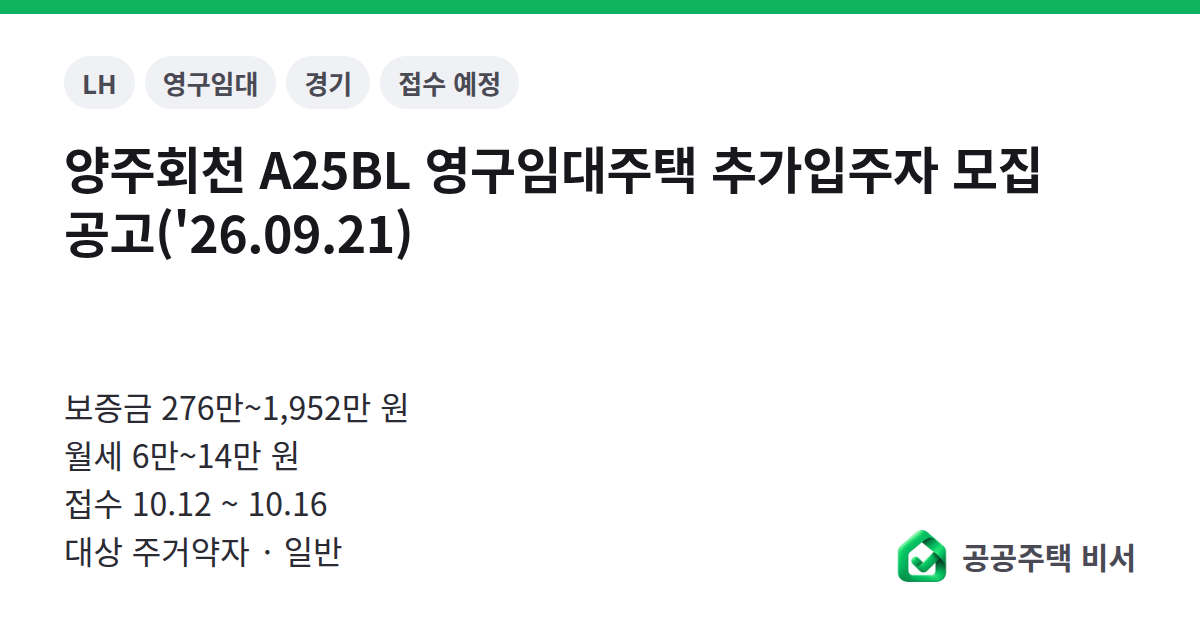
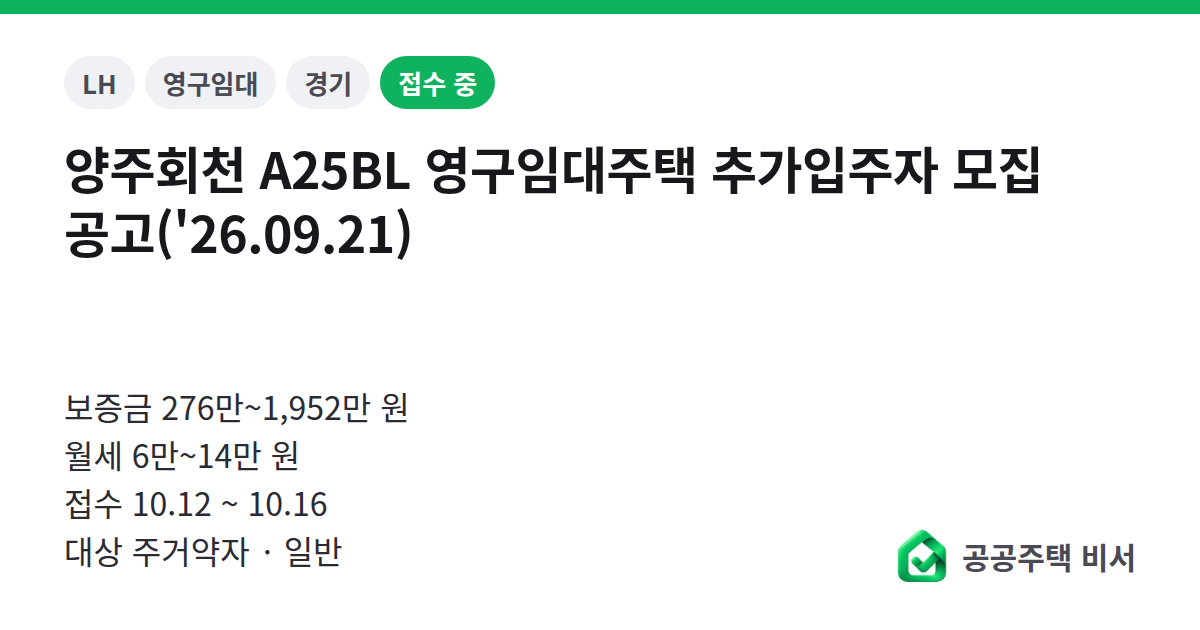
공고 페이지 갱신 2026-10-12T03:46

Changed region(s): [[0.3083, 0.0905, 0.4317, 0.181]]

diff --git a/index.html b/index.html
@@ -29,7 +29,7 @@ footer{color:var(--fg3);font-size:13px;line-height:1.6;margin-top:28px}footer a{
 <header><a href="https://gonggongbiseo.kr/" class="brand"><img src="https://gonggongbiseo.kr/logo.png" alt="공공주택 비서 로고" width="28" height="28">공공주택 비서</a><nav><a href="https://gonggongbiseo.kr/" style="font-weight:400;color:var(--fg3);font-size:14px">공고 목록</a></nav></header>
 <h1>지금 볼 수 있는 공고 15개</h1><p class="sub">서울·인천·경기의 LH·SH 공고를 모아요. 눌러서 요약을 보고, 내 조건과 맞는지는 앱에서 확인해요.</p>
 <section class="cta"><h2>공공주택 비서</h2><p>공고를 찾는 앱이 아니라, 이 공고가 나한테 맞는지 판단하는 앱이에요. 소득·자산은 휴대폰에만 저장돼요.</p><div class="stores"><a href="https://apps.apple.com/kr/app/id6815055816" data-mp="web_store_clicked" data-mp-store="ios"><img src="https://gonggongbiseo.kr/badges/app-store-ko.svg" alt="App Store에서 다운로드" height="40"></a></div><p class="src" style="margin:8px 0 0">안드로이드는 준비 중이에요.</p></section>
-<section class="card list"><a href="https://gonggongbiseo.kr/n/LH/0000061179">인천계양 A17블록 신혼희망타운(공공분양) 입주자모집공고<small>LH 신혼희망타운 · 인천 · 접수 10.26~10.27 · 대상 신혼부부·예비신혼부부</small></a><a href="https://gonggongbiseo.kr/n/LH/2015122300020802">[경기남부] 든든전세 매입임대주택 예비입주자 모집공고(비분양전환)<small>LH 든든전세 · 경기 · 접수 10.21~10.23 · 보증금 1억 506만~3억 5,550만 원 · 월세 없음 · 대상 일반</small></a><a href="https://gonggongbiseo.kr/n/SH/311087">강동구 청년창업가,예술인주택(수요자맞춤형) 잔여세대 모집 공고<small>SH 기타 · 서울 · 접수 10.08~10.22 · 보증금 1,748만~4,696만 원 · 월세 23만~61만 원 · 대상 청년</small></a><a href="https://gonggongbiseo.kr/n/LH/2015122300020727">양주회천 A25BL 영구임대주택 추가입주자 모집 공고('26.09.21)<small>LH 영구임대 · 경기 · 접수 10.12~10.16 · 보증금 276만~1,952만 원 · 월세 6만~14만 원 · 대상 주거약자·일반</small></a><a href="https://gonggongbiseo.kr/n/LH/2015122300020843">[서울지역본부] 26년 2차 비분양전환형 든든전세주택 입주자 모집공고<small>LH 든든전세 · 서울 · 접수 10.14~10.16 · 보증금 2억 4,962만~4억 2,312만 원 · 월세 없음 · 대상 일반</small></a><a href="https://gonggongbiseo.kr/n/SH/310653">2026년 하반기 신혼·신생아 매입임대주택Ⅱ 입주자 모집공고(2026.09.30.)<small>SH 매입임대 · 서울 · 접수 10.13~10.15 · 보증금 4,695만~1억 3,770만 원 · 월세 48만~142만 원 · 대상 신생아 가구·신혼부부·예비신혼부부</small></a><a href="https://gonggongbiseo.kr/n/LH/2015122300020858">인천석남 어울림센터 행복주택 입주자 최초모집<small>LH 행복주택 · 인천 · 접수 10.13~10.15 · 보증금 2,886만~8,156만 원 · 월세 15만~41만 원 · 대상 대학생·예비신혼부부·청년</small></a><a href="https://gonggongbiseo.kr/n/LH/2015122300020755">[경기북부] 2026년 4차 비분양전환형 든든전세주택 입주자 모집공고<small>LH 든든전세 · 경기 · 접수 10.13~10.15 · 보증금 1억 7,905만~3억 8,046만 원 · 월세 없음 · 대상 일반</small></a><a href="https://gonggongbiseo.kr/n/LH/2015122300020803">의왕청계2 A1블록 신혼희망타운 행복주택 입주자 모집공고<small>LH 신혼희망타운 · 경기 · 접수 10.13~10.15 · 보증금 1억 7,480만~1억 7,520만 원 · 월세 68만~69만 원 · 대상 신혼부부·한부모·예비신혼부부</small></a><a href="https://gonggongbiseo.kr/n/LH/2015122300020768">[인천지역본부] 26년 2차 일반 매입임대주택 예비입주자 모집(인천,부천)<small>LH 매입임대 · 인천 · 접수 10.13~10.15 · 대상 일반</small></a><a href="https://gonggongbiseo.kr/n/SH/310650">2026년 하반기 신혼·신생아 매입임대주택Ⅰ 입주자 모집공고(2026.09.30.)<small>SH 매입임대 · 서울 · 접수 10.13~10.15 · 보증금 1,953만~1억 200만 원 · 월세 21만~105만 원 · 대상 신생아 가구·신혼부부·예비신혼부부</small></a><a href="https://gonggongbiseo.kr/n/LH/2015122300020859">하남시 신혼희망타운 행복주택 예비입주자 모집공고(2026.10.01)<small>LH 신혼희망타운 · 경기 · 접수 10.12~10.14 · 보증금 1억 1,612만~1억 4,804만 원 · 월세 48만~62만 원 · 대상 신혼부부·한부모·예비신혼부부</small></a><a href="https://gonggongbiseo.kr/n/LH/0000061181">수원당수 A-3블록 신혼희망타운(공공분양) 잔여세대 추가입주자 모집공고(입주 후 해약세대)<small>LH 신혼희망타운 · 경기 · 접수 10.12~10.12 · 대상 신혼부부·예비신혼부부</small></a><a href="https://gonggongbiseo.kr/n/SH/308231">2026-1차 희망하우징(공공기숙사) 잔여세대 입주자 모집공고(2026. 5. 11.) 당첨자 및 예비자 발표<small>SH 기타 · 서울 · 대상 일반</small></a><a href="https://gonggongbiseo.kr/n/SH/308394">2026년 재개발임대주택 입주자 모집 일정 연기 안내<small>SH 공공임대 · 서울</small></a></section>
+<section class="card list"><a href="https://gonggongbiseo.kr/n/LH/0000061179">인천계양 A17블록 신혼희망타운(공공분양) 입주자모집공고<small>LH 신혼희망타운 · 인천 · 접수 10.26~10.27 · 대상 신혼부부·예비신혼부부</small></a><a href="https://gonggongbiseo.kr/n/LH/2015122300020802">[경기남부] 든든전세 매입임대주택 예비입주자 모집공고(비분양전환)<small>LH 든든전세 · 경기 · 접수 10.21~10.23 · 보증금 1억 506만~3억 5,550만 원 · 월세 없음 · 대상 일반</small></a><a href="https://gonggongbiseo.kr/n/SH/311087">강동구 청년창업가,예술인주택(수요자맞춤형) 잔여세대 모집 공고<small>SH 기타 · 서울 · 접수 10.08~10.22 · 보증금 1,748만~4,696만 원 · 월세 23만~61만 원 · 대상 청년</small></a><a href="https://gonggongbiseo.kr/n/LH/2015122300020843">[서울지역본부] 26년 2차 비분양전환형 든든전세주택 입주자 모집공고<small>LH 든든전세 · 서울 · 접수 10.14~10.16 · 보증금 2억 4,962만~4억 2,312만 원 · 월세 없음 · 대상 일반</small></a><a href="https://gonggongbiseo.kr/n/LH/2015122300020727">양주회천 A25BL 영구임대주택 추가입주자 모집 공고('26.09.21)<small>LH 영구임대 · 경기 · 접수 10.12~10.16 · 보증금 276만~1,952만 원 · 월세 6만~14만 원 · 대상 주거약자·일반</small></a><a href="https://gonggongbiseo.kr/n/LH/2015122300020803">의왕청계2 A1블록 신혼희망타운 행복주택 입주자 모집공고<small>LH 신혼희망타운 · 경기 · 접수 10.13~10.15 · 보증금 1억 7,480만~1억 7,520만 원 · 월세 68만~69만 원 · 대상 신혼부부·한부모·예비신혼부부</small></a><a href="https://gonggongbiseo.kr/n/LH/2015122300020768">[인천지역본부] 26년 2차 일반 매입임대주택 예비입주자 모집(인천,부천)<small>LH 매입임대 · 인천 · 접수 10.13~10.15 · 대상 일반</small></a><a href="https://gonggongbiseo.kr/n/LH/2015122300020858">인천석남 어울림센터 행복주택 입주자 최초모집<small>LH 행복주택 · 인천 · 접수 10.13~10.15 · 보증금 2,886만~8,156만 원 · 월세 15만~41만 원 · 대상 대학생·예비신혼부부·청년</small></a><a href="https://gonggongbiseo.kr/n/SH/310650">2026년 하반기 신혼·신생아 매입임대주택Ⅰ 입주자 모집공고(2026.09.30.)<small>SH 매입임대 · 서울 · 접수 10.13~10.15 · 보증금 1,953만~1억 200만 원 · 월세 21만~105만 원 · 대상 신생아 가구·신혼부부·예비신혼부부</small></a><a href="https://gonggongbiseo.kr/n/LH/2015122300020755">[경기북부] 2026년 4차 비분양전환형 든든전세주택 입주자 모집공고<small>LH 든든전세 · 경기 · 접수 10.13~10.15 · 보증금 1억 7,905만~3억 8,046만 원 · 월세 없음 · 대상 일반</small></a><a href="https://gonggongbiseo.kr/n/SH/310653">2026년 하반기 신혼·신생아 매입임대주택Ⅱ 입주자 모집공고(2026.09.30.)<small>SH 매입임대 · 서울 · 접수 10.13~10.15 · 보증금 4,695만~1억 3,770만 원 · 월세 48만~142만 원 · 대상 신생아 가구·신혼부부·예비신혼부부</small></a><a href="https://gonggongbiseo.kr/n/LH/2015122300020859">하남시 신혼희망타운 행복주택 예비입주자 모집공고(2026.10.01)<small>LH 신혼희망타운 · 경기 · 접수 10.12~10.14 · 보증금 1억 1,612만~1억 4,804만 원 · 월세 48만~62만 원 · 대상 신혼부부·한부모·예비신혼부부</small></a><a href="https://gonggongbiseo.kr/n/LH/0000061181">수원당수 A-3블록 신혼희망타운(공공분양) 잔여세대 추가입주자 모집공고(입주 후 해약세대)<small>LH 신혼희망타운 · 경기 · 접수 10.12~10.12 · 대상 신혼부부·예비신혼부부</small></a><a href="https://gonggongbiseo.kr/n/SH/308394">2026년 재개발임대주택 입주자 모집 일정 연기 안내<small>SH 공공임대 · 서울</small></a><a href="https://gonggongbiseo.kr/n/SH/308231">2026-1차 희망하우징(공공기숙사) 잔여세대 입주자 모집공고(2026. 5. 11.) 당첨자 및 예비자 발표<small>SH 기타 · 서울 · 대상 일반</small></a></section>
 <footer>
 <p>공공주택 비서는 LH·SH 공식 서비스가 아니에요. 이 페이지의 숫자는 공고문에서 옮긴 것이고(쪽수 표시), 신청 자격은 기관이 서류로 확인해요. AI가 옮긴 조건은 틀릴 수 있으니 공고문 원문과 함께 봐 주세요.</p>
 <p><a href="https://yxungmin.github.io/housing-assistant-legal/terms.html">이용약관</a> · <a href="https://yxungmin.github.io/housing-assistant-legal/privacy.html">개인정보처리방침</a> · <a href="https://yxungmin.github.io/housing-assistant-legal/support.html">문의</a></p>

diff --git a/n/LH/2015122300020859.html b/n/LH/2015122300020859.html
@@ -13,7 +13,7 @@
 <meta property="og:image" content="https://gonggongbiseo.kr/og/LH-2015122300020859.png">
 <meta property="og:image:width" content="1200"><meta property="og:image:height" content="630">
 <meta name="twitter:card" content="summary_large_image">
-<script type="application/ld+json">{"@context":"https://schema.org","@type":"Article","headline":"하남시 신혼희망타운 행복주택 예비입주자 모집공고(2026.10.01)","description":"LH 신혼희망타운 · 경기 · 접수 10.12~10.14 · 보증금 1억 1,612만~1억 4,804만 원 · 월세 48만~62만 원 · 대상 신혼부부·한부모·예비신혼부부","url":"https://gonggongbiseo.kr/n/LH/2015122300020859","datePublished":"2026-10-01","dateModified":"2026-10-02","author":{"@type":"Organization","name":"LH"},"publisher":{"@type":"Organization","name":"공공주택 비서"},"isBasedOn":"https://tomybypxvhrkwvfnthva.supabase.co/storage/v1/object/public/announcement-pdfs/LH/2015122300020859/v1.pdf"}</script>
+<script type="application/ld+json">{"@context":"https://schema.org","@type":"Article","headline":"하남시 신혼희망타운 행복주택 예비입주자 모집공고(2026.10.01)","description":"LH 신혼희망타운 · 경기 · 접수 10.12~10.14 · 보증금 1억 1,612만~1억 4,804만 원 · 월세 48만~62만 원 · 대상 신혼부부·한부모·예비신혼부부","url":"https://gonggongbiseo.kr/n/LH/2015122300020859","datePublished":"2026-10-01","dateModified":"2026-10-11","author":{"@type":"Organization","name":"LH"},"publisher":{"@type":"Organization","name":"공공주택 비서"},"isBasedOn":"https://tomybypxvhrkwvfnthva.supabase.co/storage/v1/object/public/announcement-pdfs/LH/2015122300020859/v1.pdf"}</script>
 <link rel="canonical" href="https://gonggongbiseo.kr/n/LH/2015122300020859">
 <link rel="icon" type="image/png" sizes="96x96" href="https://gonggongbiseo.kr/favicon.png">
 <link rel="apple-touch-icon" sizes="192x192" href="https://gonggongbiseo.kr/icon-192.png">
@@ -35,7 +35,7 @@ footer{color:var(--fg3);font-size:13px;line-height:1.6;margin-top:28px}footer a{
 <main>
 <header><a href="https://gonggongbiseo.kr/" class="brand"><img src="https://gonggongbiseo.kr/logo.png" alt="공공주택 비서 로고" width="28" height="28">공공주택 비서</a><nav><a href="https://gonggongbiseo.kr/" style="font-weight:400;color:var(--fg3);font-size:14px">공고 목록</a></nav></header>
 
-<div class="tags"><span class="tag">LH</span><span class="tag">신혼희망타운</span><span class="tag">경기</span><span class="tag">접수 예정</span></div>
+<div class="tags"><span class="tag">LH</span><span class="tag">신혼희망타운</span><span class="tag">경기</span><span class="tag on">접수 중</span></div>
 <h1>하남시 신혼희망타운 행복주택 예비입주자 모집공고(2026.10.01)</h1>
 <p class="sub">경기 · 공고일 2026년 10월 1일</p>
 
@@ -56,7 +56,7 @@ footer{color:var(--fg3);font-size:13px;line-height:1.6;margin-top:28px}footer a{
 </footer>
 </main>
 <script>(function(){var b=document.getElementById('open-app');if(!b)return;b.addEventListener('click',function(e){e.preventDefault();var ua=navigator.userAgent;var store=/iPhone|iPad|iPod/.test(ua)?"https://apps.apple.com/kr/app/id6815055816":null;var t=setTimeout(function(){if(document.visibilityState==='hidden')return;if(store)location.href=store;else alert('안드로이드 앱은 준비 중이에요. 지금은 iPhone에서 쓸 수 있어요.')},1500);document.addEventListener('visibilitychange',function(){if(document.visibilityState==='hidden')clearTimeout(t)});location.href="housingassistant://"+"n/LH/2015122300020859";});})();</script><script>(function(){
-var T="5a9744b22b1d2459ac28a54f3650d30d",U="https://api.mixpanel.com/track?ip=0",P={"page":"notice","provider":"LH","housing_type":"newlywed_hope","phase":"upcoming"};
+var T="5a9744b22b1d2459ac28a54f3650d30d",U="https://api.mixpanel.com/track?ip=0",P={"page":"notice","provider":"LH","housing_type":"newlywed_hope","phase":"open"};
 if(Date.now()<Date.parse("2026-10-10T00:00:00+09:00")||location.hostname!=="gonggongbiseo.kr")return;
 function rid(){try{if(window.crypto&&crypto.randomUUID)return crypto.randomUUID()}catch(e){}return Date.now().toString(36)+Math.random().toString(36).slice(2)}
 var id;try{id=localStorage.getItem('gb_anon_id');if(!id){id=rid();localStorage.setItem('gb_anon_id',id)}}catch(e){id=rid()}

diff --git a/n/LH/0000061181.html b/n/LH/0000061181.html
@@ -35,7 +35,7 @@ footer{color:var(--fg3);font-size:13px;line-height:1.6;margin-top:28px}footer a{
 <main>
 <header><a href="https://gonggongbiseo.kr/" class="brand"><img src="https://gonggongbiseo.kr/logo.png" alt="공공주택 비서 로고" width="28" height="28">공공주택 비서</a><nav><a href="https://gonggongbiseo.kr/" style="font-weight:400;color:var(--fg3);font-size:14px">공고 목록</a></nav></header>
 
-<div class="tags"><span class="tag">LH</span><span class="tag">신혼희망타운</span><span class="tag">경기</span><span class="tag">접수 예정</span></div>
+<div class="tags"><span class="tag">LH</span><span class="tag">신혼희망타운</span><span class="tag">경기</span><span class="tag on">접수 중</span></div>
 <h1>수원당수 A-3블록 신혼희망타운(공공분양) 잔여세대 추가입주자 모집공고(입주 후 해약세대)</h1>
 <p class="sub">경기 · 공고일 2026년 9월 29일</p>
 
@@ -56,7 +56,7 @@ footer{color:var(--fg3);font-size:13px;line-height:1.6;margin-top:28px}footer a{
 </footer>
 </main>
 <script>(function(){var b=document.getElementById('open-app');if(!b)return;b.addEventListener('click',function(e){e.preventDefault();var ua=navigator.userAgent;var store=/iPhone|iPad|iPod/.test(ua)?"https://apps.apple.com/kr/app/id6815055816":null;var t=setTimeout(function(){if(document.visibilityState==='hidden')return;if(store)location.href=store;else alert('안드로이드 앱은 준비 중이에요. 지금은 iPhone에서 쓸 수 있어요.')},1500);document.addEventListener('visibilitychange',function(){if(document.visibilityState==='hidden')clearTimeout(t)});location.href="housingassistant://"+"n/LH/0000061181";});})();</script><script>(function(){
-var T="5a9744b22b1d2459ac28a54f3650d30d",U="https://api.mixpanel.com/track?ip=0",P={"page":"notice","provider":"LH","housing_type":"newlywed_hope","phase":"upcoming"};
+var T="5a9744b22b1d2459ac28a54f3650d30d",U="https://api.mixpanel.com/track?ip=0",P={"page":"notice","provider":"LH","housing_type":"newlywed_hope","phase":"open"};
 if(Date.now()<Date.parse("2026-10-10T00:00:00+09:00")||location.hostname!=="gonggongbiseo.kr")return;
 function rid(){try{if(window.crypto&&crypto.randomUUID)return crypto.randomUUID()}catch(e){}return Date.now().toString(36)+Math.random().toString(36).slice(2)}
 var id;try{id=localStorage.getItem('gb_anon_id');if(!id){id=rid();localStorage.setItem('gb_anon_id',id)}}catch(e){id=rid()}

diff --git a/n/LH/2015122300020727.html b/n/LH/2015122300020727.html
@@ -35,7 +35,7 @@ footer{color:var(--fg3);font-size:13px;line-height:1.6;margin-top:28px}footer a{
 <main>
 <header><a href="https://gonggongbiseo.kr/" class="brand"><img src="https://gonggongbiseo.kr/logo.png" alt="공공주택 비서 로고" width="28" height="28">공공주택 비서</a><nav><a href="https://gonggongbiseo.kr/" style="font-weight:400;color:var(--fg3);font-size:14px">공고 목록</a></nav></header>
 
-<div class="tags"><span class="tag">LH</span><span class="tag">영구임대</span><span class="tag">경기</span><span class="tag">접수 예정</span></div>
+<div class="tags"><span class="tag">LH</span><span class="tag">영구임대</span><span class="tag">경기</span><span class="tag on">접수 중</span></div>
 <h1>양주회천 A25BL 영구임대주택 추가입주자 모집 공고('26.09.21)</h1>
 <p class="sub">경기 · 공고일 2026년 9월 21일</p>
 
@@ -56,7 +56,7 @@ footer{color:var(--fg3);font-size:13px;line-height:1.6;margin-top:28px}footer a{
 </footer>
 </main>
 <script>(function(){var b=document.getElementById('open-app');if(!b)return;b.addEventListener('click',function(e){e.preventDefault();var ua=navigator.userAgent;var store=/iPhone|iPad|iPod/.test(ua)?"https://apps.apple.com/kr/app/id6815055816":null;var t=setTimeout(function(){if(document.visibilityState==='hidden')return;if(store)location.href=store;else alert('안드로이드 앱은 준비 중이에요. 지금은 iPhone에서 쓸 수 있어요.')},1500);document.addEventListener('visibilitychange',function(){if(document.visibilityState==='hidden')clearTimeout(t)});location.href="housingassistant://"+"n/LH/2015122300020727";});})();</script><script>(function(){
-var T="5a9744b22b1d2459ac28a54f3650d30d",U="https://api.mixpanel.com/track?ip=0",P={"page":"notice","provider":"LH","housing_type":"long_term_rental","phase":"upcoming"};
+var T="5a9744b22b1d2459ac28a54f3650d30d",U="https://api.mixpanel.com/track?ip=0",P={"page":"notice","provider":"LH","housing_type":"long_term_rental","phase":"open"};
 if(Date.now()<Date.parse("2026-10-10T00:00:00+09:00")||location.hostname!=="gonggongbiseo.kr")return;
 function rid(){try{if(window.crypto&&crypto.randomUUID)return crypto.randomUUID()}catch(e){}return Date.now().toString(36)+Math.random().toString(36).slice(2)}
 var id;try{id=localStorage.getItem('gb_anon_id');if(!id){id=rid();localStorage.setItem('gb_anon_id',id)}}catch(e){id=rid()}
